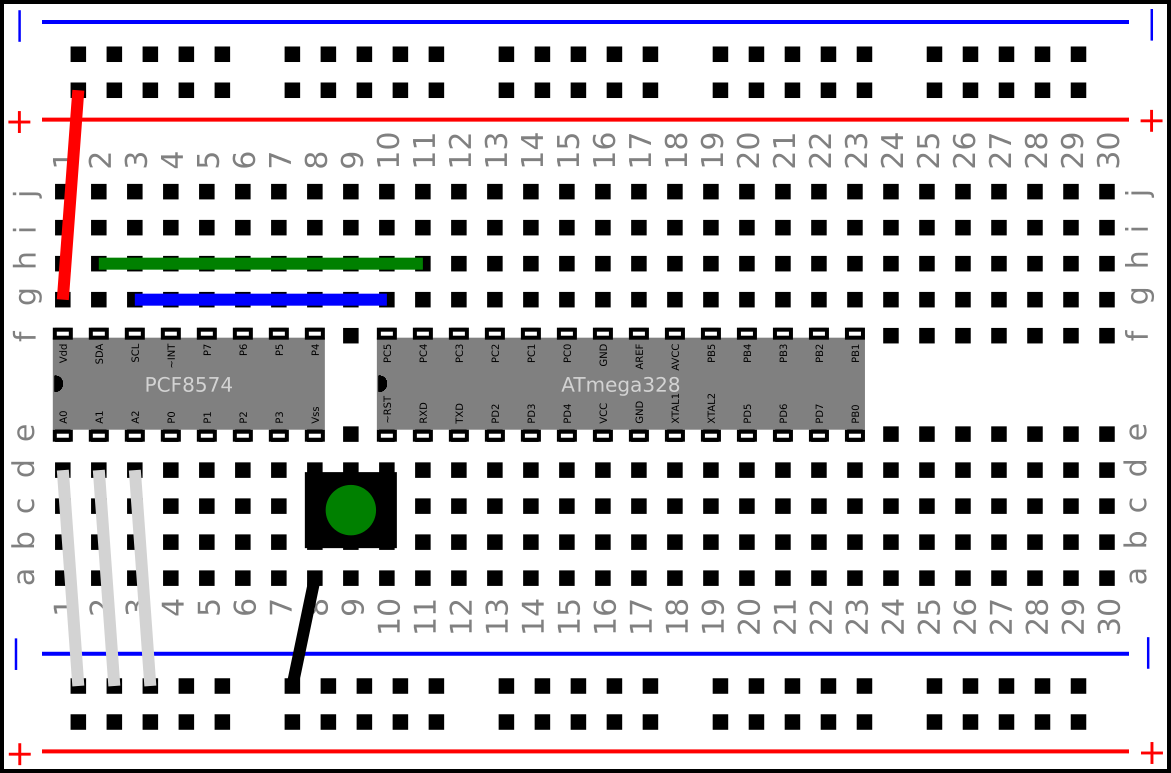
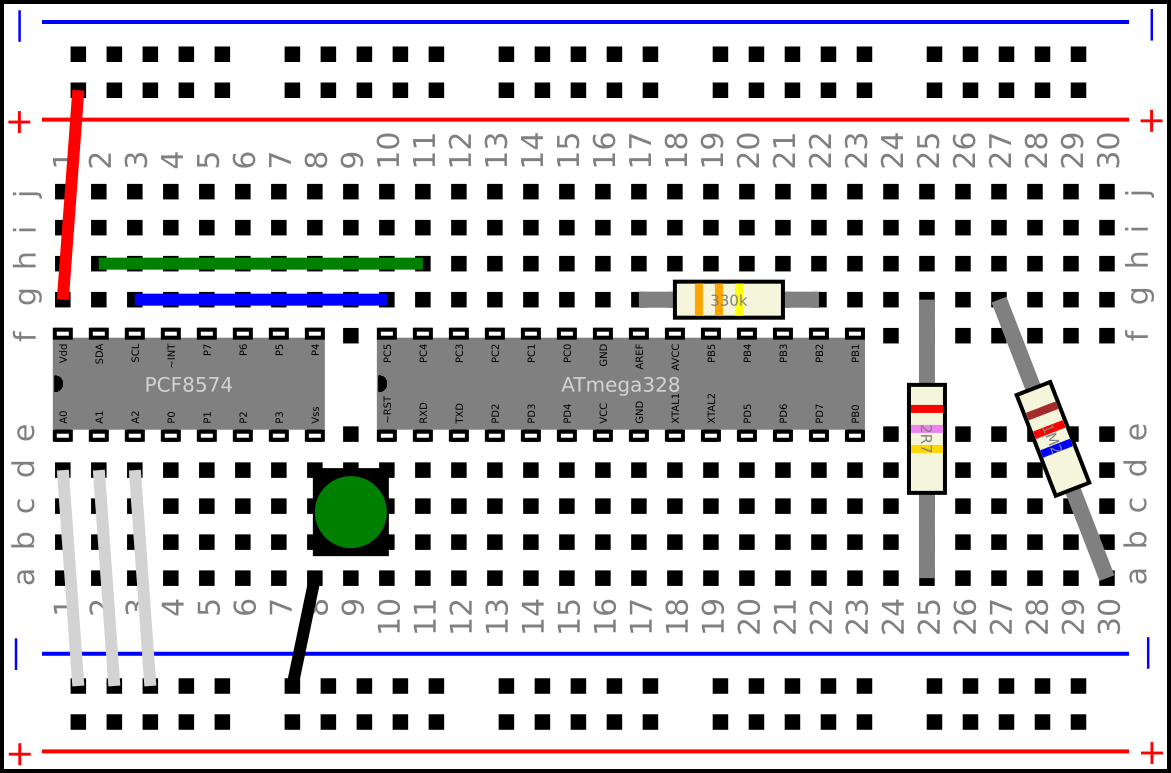
Updated the README with current script, image. Contary to previous commit comment, resistor banding was correct - it's just hard to distinguish between gold and yellow!

diff --git a/src/breadboarder/tests/e2e_tests/e2e-dil-test.py b/src/breadboarder/tests/e2e_tests/e2e-dil-test.py
@@ -20,6 +20,7 @@ def test_dil():
     breadboard.connect(Button(), 'd8')
     breadboard.connect(Resistor('330k'), 'g17','g22')
     breadboard.connect(Resistor('2R7'), 'g25','a25')
+    breadboard.connect(Resistor('1M2'), 'g27','a30')
     svg = drawing.svg()
     write(svg, 'svg/dil.svg')
 

diff --git a/README.md b/README.md
@@ -24,12 +24,13 @@ difficulties.
 
 ## Sample script and its output
 
+    
     def test_dil():
         drawing = Drawing()
         breadboard = Breadboard()
         drawing.add(breadboard)
-        breadboard.insert(atMega328(), 'f10')
-        breadboard.insert(pcf8574(), 'f1')
+        breadboard.connect(atMega328(), 'f10')
+        breadboard.connect(pcf8574(), 'f1')
         breadboard.connect(Wire('red'),'g1','TP1')
         breadboard.connect(Wire('black'),'a8','BM6')
         breadboard.connect(Wire('blue'),'g3','g10')
@@ -37,7 +38,10 @@ difficulties.
         breadboard.connect(Wire('lightgrey'),'d1','BM1')
         breadboard.connect(Wire('lightgrey'),'d2','BM2')
         breadboard.connect(Wire('lightgrey'),'d3','BM3')
-        breadboard.insert(Button(), 'd8')
+        breadboard.connect(Button(), 'd8')
+        breadboard.connect(Resistor('330k'), 'g17','g22')
+        breadboard.connect(Resistor('2R7'), 'g25','a25')
+        breadboard.connect(Resistor('1M2'), 'g27','a30')
         svg = drawing.svg()
         write(svg, 'svg/dil.svg')
         
